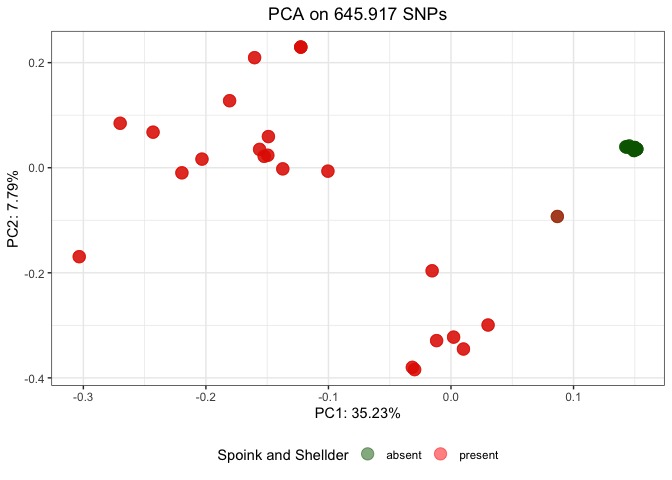
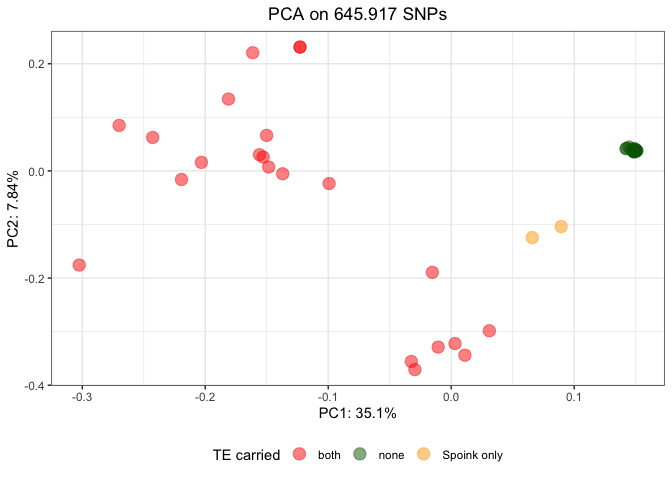
Dsec new PCA

diff --git a/documentation/dsec.md b/documentation/dsec.md
@@ -14,8 +14,25 @@ theme_set(theme_bw())
 ``` r
 dsec_csv <- read_csv("/Volumes/EXT-RICCARDO/DoubleTrouble/Dsec/time-series/dsec.csv", show_col_types = FALSE) %>% filter(Sample!="Sample")
 
-dsec_metadata <- read_tsv("/Volumes/EXT-RICCARDO/DoubleTrouble/Dsec/metadata.txt", show_col_types = FALSE)
+(dsec_metadata <- read_tsv("/Volumes/EXT-RICCARDO/DoubleTrouble/Dsec/metadata.txt", show_col_types = FALSE))
+```
 
+    ## # A tibble: 47 × 6
+    ##    Sample     library_name island     lat  long  year
+    ##    <chr>      <chr>        <chr>    <dbl> <dbl> <dbl>
+    ##  1 SRR5860583 PNF4         Praslin  -4.32  55.7  2012
+    ##  2 SRR5860625 DenisNF155   Denis    -3.81  55.7  2012
+    ##  3 SRR5860626 DenisNoni10  Denis    -3.81  55.7  2012
+    ##  4 SRR5860628 DenisNoni60  Denis    -3.81  55.7  2012
+    ##  5 SRR5860631 Denis124     Denis    -3.81  55.7  2012
+    ##  6 SRR5860632 Denis7_2     Denis    -3.81  55.7  2012
+    ##  7 SRR5860645 Anro_B7      Mahé     -4.73  55.5  2012
+    ##  8 SRR5860656 LD16         La Digue -4.36  55.8  2012
+    ##  9 SRR5860659 mariane_1    Mariane  -4.34  55.9  2012
+    ## 10 SRR5860661 Anro_B2      Mahé     -4.73  55.5  2012
+    ## # ℹ 37 more rows
+
+``` r
 dsec <- inner_join(dsec_metadata, dsec_csv, by="Sample") %>% type_convert() %>% mutate(presence = ifelse(HQ_reads > 2, "present", "absent"), TE = case_when(TE == "spoink" ~ "Spoink", TE == "PPI251" ~ "P-element", TRUE ~ TE)) %>% filter(TE %in% c("Spoink", "Shellder", "P-element"))
 ```
 
@@ -194,8 +211,42 @@ values of each PC for each sample) and the **.eigenval** file
 (variability explained by each PC, easily convertible in % value).
 
 ``` r
-pca_metadata <- dsec %>% select(Sample, island, year, presence)
+(pca_metadata <- left_join(dsec_metadata, dsec_csv, by="Sample") %>% type_convert() %>% mutate(presence = ifelse(HQ_reads > 2, "present", "absent"), TE = case_when(TE == "spoink" ~ "Spoink", TE == "PPI251" ~ "P-element", TRUE ~ TE)) %>% filter(TE %in% c("Spoink", "Shellder", "P-element", NA)) %>% select(-All_reads, -HQ_reads) %>% pivot_wider(names_from = TE, values_from = presence) %>% mutate(Shellder = ifelse(library_name=="14021-0248.01", "absent", Shellder), Spoink = ifelse(library_name=="14021-0248.01", "present", Spoink)) %>% mutate(presence = case_when(
+    Spoink == "present" & Shellder == "present" ~ "both",
+    Spoink == "present" & Shellder != "present" ~ "Spoink only",
+    Spoink != "present" & Shellder == "present" ~ "Shellder only",
+    TRUE ~ "none"
+  )) %>% select(-"NA"))
+```
 
+    ## 
+    ## ── Column specification ────────────────────────────────────────────────────────
+    ## cols(
+    ##   Sample = col_character(),
+    ##   library_name = col_character(),
+    ##   island = col_character(),
+    ##   TE = col_character(),
+    ##   All_reads = col_double(),
+    ##   HQ_reads = col_double()
+    ## )
+
+    ## # A tibble: 47 × 10
+    ##    Sample     library_name island    lat  long  year `P-element` Shellder Spoink
+    ##    <chr>      <chr>        <chr>   <dbl> <dbl> <dbl> <chr>       <chr>    <chr> 
+    ##  1 SRR5860583 PNF4         Praslin -4.32  55.7  2012 absent      present  prese…
+    ##  2 SRR5860625 DenisNF155   Denis   -3.81  55.7  2012 absent      present  prese…
+    ##  3 SRR5860626 DenisNoni10  Denis   -3.81  55.7  2012 absent      absent   absent
+    ##  4 SRR5860628 DenisNoni60  Denis   -3.81  55.7  2012 absent      present  prese…
+    ##  5 SRR5860631 Denis124     Denis   -3.81  55.7  2012 absent      present  prese…
+    ##  6 SRR5860632 Denis7_2     Denis   -3.81  55.7  2012 absent      present  prese…
+    ##  7 SRR5860645 Anro_B7      Mahé    -4.73  55.5  2012 absent      absent   absent
+    ##  8 SRR5860656 LD16         La Dig… -4.36  55.8  2012 absent      absent   absent
+    ##  9 SRR5860659 mariane_1    Mariane -4.34  55.9  2012 absent      absent   absent
+    ## 10 SRR5860661 Anro_B2      Mahé    -4.73  55.5  2012 absent      absent   absent
+    ## # ℹ 37 more rows
+    ## # ℹ 1 more variable: presence <chr>
+
+``` r
 PCs <- c("PC1", "PC2", "PC3", "PC4", "PC5", "PC6", "PC7", "PC8", "PC9", "PC10", "PC11", "PC12", "PC13", "PC14", "PC15", "PC16", "PC17", "PC18", "PC19", "PC20")
 ```
 
@@ -223,10 +274,15 @@ pca_plot_islands <- ggplot(pcaable, aes(x=PC1, y=PC2, color=island)) + geom_poin
 
 pca_plot_presence <- ggplot(pcaable, aes(x=PC1, y=PC2, color=presence)) + geom_point(alpha=0.5, size=4) +
     xlab(paste0("PC1: ", var_explained[1])) + ylab(paste0("PC2: ", var_explained[2])) +
-    scale_color_manual(values = c("darkgreen", "red")) + labs(color = "Spoink and Shellder") +
+    scale_color_manual(values = c("red", "darkgreen", "orange")) + labs(color = "TE carried") +
     ggtitle(title) + theme(plot.title = element_text(hjust = 0.5), legend.position = "bottom")
 
-list(islands = pca_plot_islands, presence = pca_plot_presence)
+pca_plot_merged <- ggplot(pcaable, aes(x=PC1, y=PC2, color=presence, fill=island)) + geom_point(shape=21, alpha=0.5, size=4, stroke=2) +
+    xlab(paste0("PC1: ", var_explained[1])) + ylab(paste0("PC2: ", var_explained[2])) +
+    scale_color_manual(values = c("red", "darkgreen", "orange")) + labs(color = "TE carried") +
+    ggtitle(title) + theme(plot.title = element_text(hjust = 0.5), legend.position = "bottom")
+
+list(islands = pca_plot_islands, presence = pca_plot_presence, data = pcaable, pca = pca_plot_merged)
 }
 ```
 
@@ -235,7 +291,7 @@ second one is performed removing the 2 suspicious strains of unknown
 origin.
 
 ``` r
-all_samples <- eigen2pca("/Volumes/EXT-RICCARDO/DoubleTrouble/Dsec/population-structure/v1/dsec.pca.eigenvec", "/Volumes/EXT-RICCARDO/DoubleTrouble/Dsec/population-structure/v1/dsec.pca.eigenval", pca_metadata, "PCA with all samples")
+all_samples <- eigen2pca("/Volumes/EXT-RICCARDO/DoubleTrouble/Dsec/population-structure/matute+chopped/dsec.pca.eigenvec", "/Volumes/EXT-RICCARDO/DoubleTrouble/Dsec/population-structure/matute+chopped/dsec.pca.eigenval", pca_metadata, "PCA on 645.917 SNPs")
 ```
 
     ## 
@@ -254,37 +310,30 @@ all_samples <- eigen2pca("/Volumes/EXT-RICCARDO/DoubleTrouble/Dsec/population-st
     ## )
 
 ``` r
-#eigen2pca("/Volumes/EXT-RICCARDO/DoubleTrouble/Dsec/population-structure/v2/dsec.pca.eigenvec", "/Volumes/EXT-RICCARDO/DoubleTrouble/Dsec/population-structure/v2/dsec.pca.eigenval", pca_metadata)
-
-good_samples <- eigen2pca("/Volumes/EXT-RICCARDO/DoubleTrouble/Dsec/population-structure/v3/dsec.pca.eigenvec", "/Volumes/EXT-RICCARDO/DoubleTrouble/Dsec/population-structure/v3/dsec.pca.eigenval", pca_metadata, "PCA on 645.917 SNPs")
-```
-
-    ## 
-    ## ── Column specification ────────────────────────────────────────────────────────
-    ## cols(
-    ##   .default = col_double(),
-    ##   Sample = col_character(),
-    ##   Sample2 = col_character()
-    ## )
-    ## ℹ Use `spec()` for the full column specifications.
-    ## 
-    ## 
-    ## ── Column specification ────────────────────────────────────────────────────────
-    ## cols(
-    ##   val = col_double()
-    ## )
-
-``` r
-print(good_samples$islands)
+print(all_samples$islands)
 ```
 
 ![](dsec_files/figure-gfm/unnamed-chunk-9-1.png)<!-- -->
 
 ``` r
-print(good_samples$presence)
+print(all_samples$presence)
 ```
 
 ![](dsec_files/figure-gfm/unnamed-chunk-9-2.png)<!-- -->
+
+``` r
+print(all_samples$pca)
+```
+
+![](dsec_files/figure-gfm/unnamed-chunk-9-3.png)<!-- -->
+
+``` r
+#eigen2pca("/Volumes/EXT-RICCARDO/DoubleTrouble/Dsec/population-structure/v2/dsec.pca.eigenvec", "/Volumes/EXT-RICCARDO/DoubleTrouble/Dsec/population-structure/v2/dsec.pca.eigenval", pca_metadata)
+
+#good_samples <- eigen2pca("/Volumes/EXT-RICCARDO/DoubleTrouble/Dsec/population-structure/v3/dsec.pca.eigenvec", "/Volumes/EXT-RICCARDO/DoubleTrouble/Dsec/population-structure/v3/dsec.pca.eigenval", pca_metadata, "PCA on 645.917 SNPs")
+#print(good_samples$islands)
+#print(good_samples$presence)
+```
 
 ``` r
 (LD <- read_tsv("/Volumes/EXT-RICCARDO/DoubleTrouble/Dsec/popgen-parameters/popgen.txt") %>% mutate(avg_LD = round(avg_LD, digits = 2), pi = round(pi, digits = 2)))
@@ -325,3 +374,36 @@ plottable_pi <- LD %>% filter(samples %in% c("Denis", "Praslin", "Mahé", "La Di
     ## `binwidth`, `bins`, and `pad`
 
 ![](dsec_files/figure-gfm/unnamed-chunk-10-1.png)<!-- -->
+
+To construct the phylogeny tree starting from the merged VCF file, I
+used a python script which can be found at
+<https://github.com/edgardomortiz/vcf2phylip> with a call like this to
+obtain the NEXUS file:
+
+    python vcf2phylip.py --input myfile.vcf --phylip-disable --nexus
+
+From the nexus file I used BEAUti to get the XML file and used it as
+input for BEAST. Then I extracted the maximum credibility tree with
+TreeAnnotator and visualized it with FigTree.
+
+## Outliers investigation
+
+SRR9913024 and SRR7697345 (SynA) come from two different studies where
+they crossed Dsim and Dsec in the lab, but they are the Dsec parental
+strain.
+
+SRR5514394 (sech25) are chopped long reads.
+
+``` r
+(outliers <- dsec %>% filter(library_name %in% c("SynA","sech25"), TE!="P-element"))
+```
+
+    ## # A tibble: 6 × 10
+    ##   Sample library_name island   lat  long  year TE    All_reads HQ_reads presence
+    ##   <chr>  <chr>        <chr>  <dbl> <dbl> <dbl> <chr>     <dbl>    <dbl> <chr>   
+    ## 1 SRR99… SynA         <NA>   NA     NA    1980 Shel…      6.04     5.28 present 
+    ## 2 SRR99… SynA         <NA>   NA     NA    1980 Spoi…     16.3     13.0  present 
+    ## 3 SRR76… SynA         <NA>   NA     NA    1980 Shel…      0.1      0.03 absent  
+    ## 4 SRR76… SynA         <NA>   NA     NA    1980 Spoi…     13.7     10.3  present 
+    ## 5 SRR55… sech25       Cousin -4.33  55.7  2003 Shel…      0.01     0    absent  
+    ## 6 SRR55… sech25       Cousin -4.33  55.7  2003 Spoi…      9.04     3.74 present
